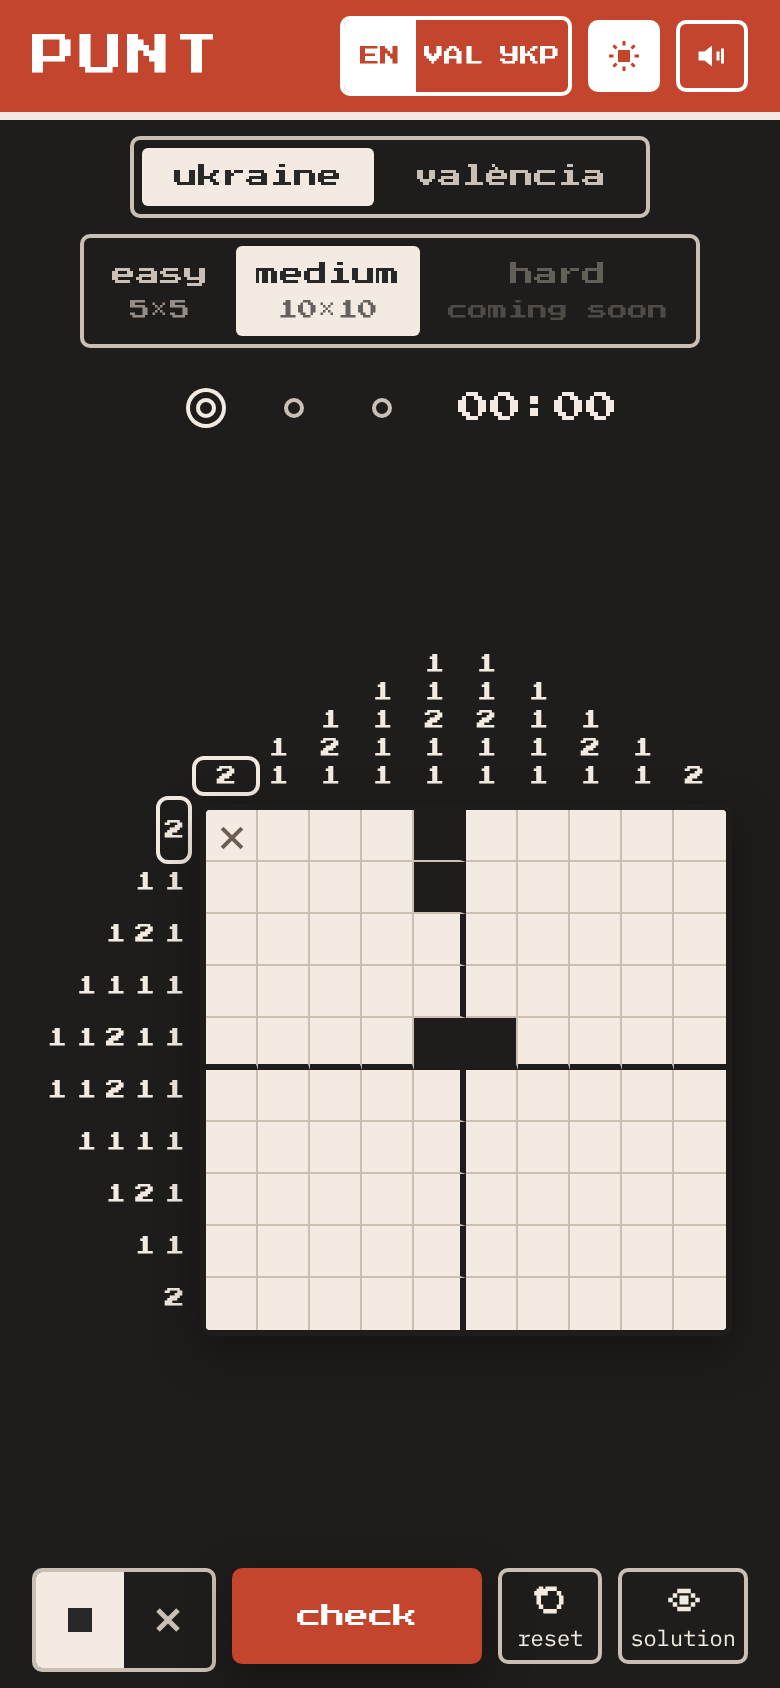
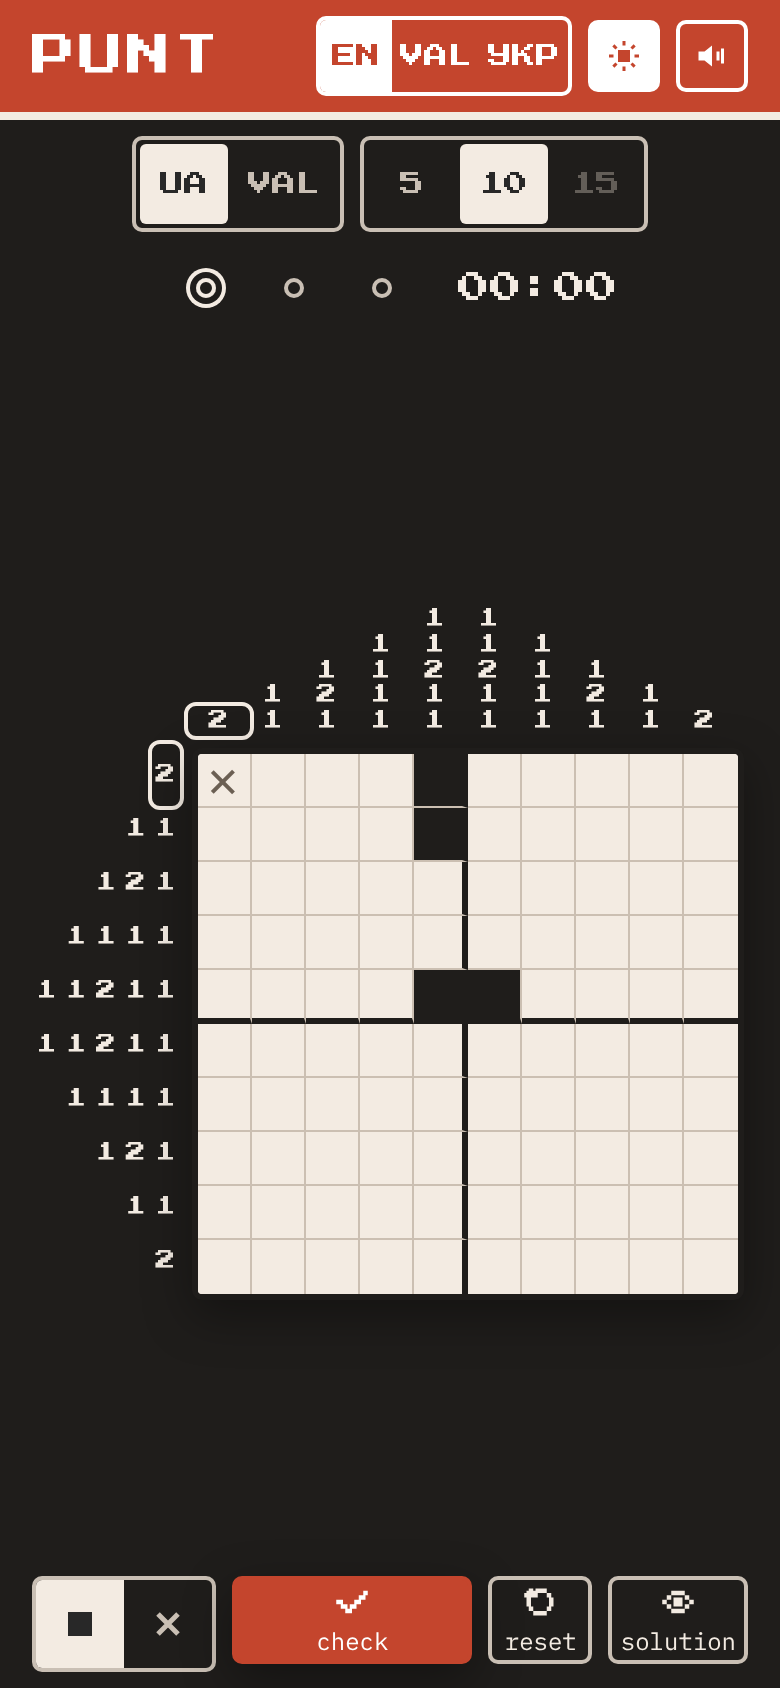
Update README and phone screenshots for the compact layout
Claude-Session: https://claude.ai/code/session_01DfzDpSfzki2WAp89fEaqQ4

diff --git a/README.md b/README.md
@@ -29,7 +29,7 @@ The game uses the same pixel-and-thread language in its UI: a pixel typeface, a 
 - Solved rows and columns fade their clues. The row and column under the pointer are highlighted.
 - **Check** outlines and hatches wrong cells, and says “no mistakes so far” or “N mistakes”. The message is also announced to screen readers.
 - Timer and best time per puzzle.
-- **Phones**: the game fits one screen (`100dvh`, safe areas for the notch and the home bar). The board is sized from the space that is really left, width and height. The controls sit in one row at the bottom, in thumb reach, and the story opens as a bottom sheet over the game.
+- **Phones**: the game fits one screen (`100dvh`, safe areas for the notch and the home bar). The board is sized from the space that is really left, width and height. Collection and level share one compact row (UA / VAL · 5 / 10 / 15), so a 10×10 board keeps cells of at least 24px even on an iPhone SE with Safari's bars. The controls sit in one row at the bottom, in thumb reach: ■/✕, then check, reset and solution as icons with captions (text on buttons is never under 12px). The story opens as a bottom sheet over the game.
 - **Progress saves automatically**: the board on every move, the timer every 5 s and when the tab is closed. Language, palette and sound settings are remembered too.
 - **Win animation**: the stitches “sew in” diagonally. With `prefers-reduced-motion` they appear without animation.
 - Optional 8-bit click sound, off by default.
